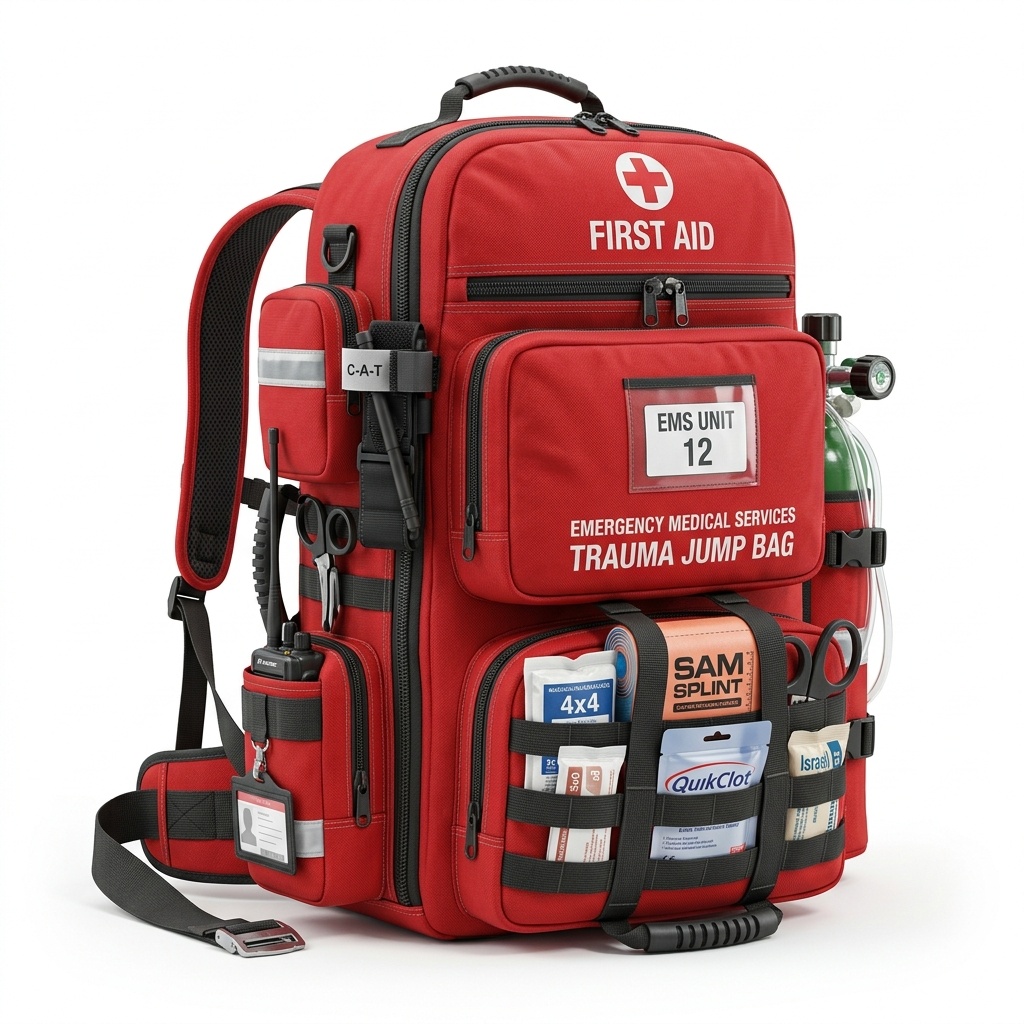
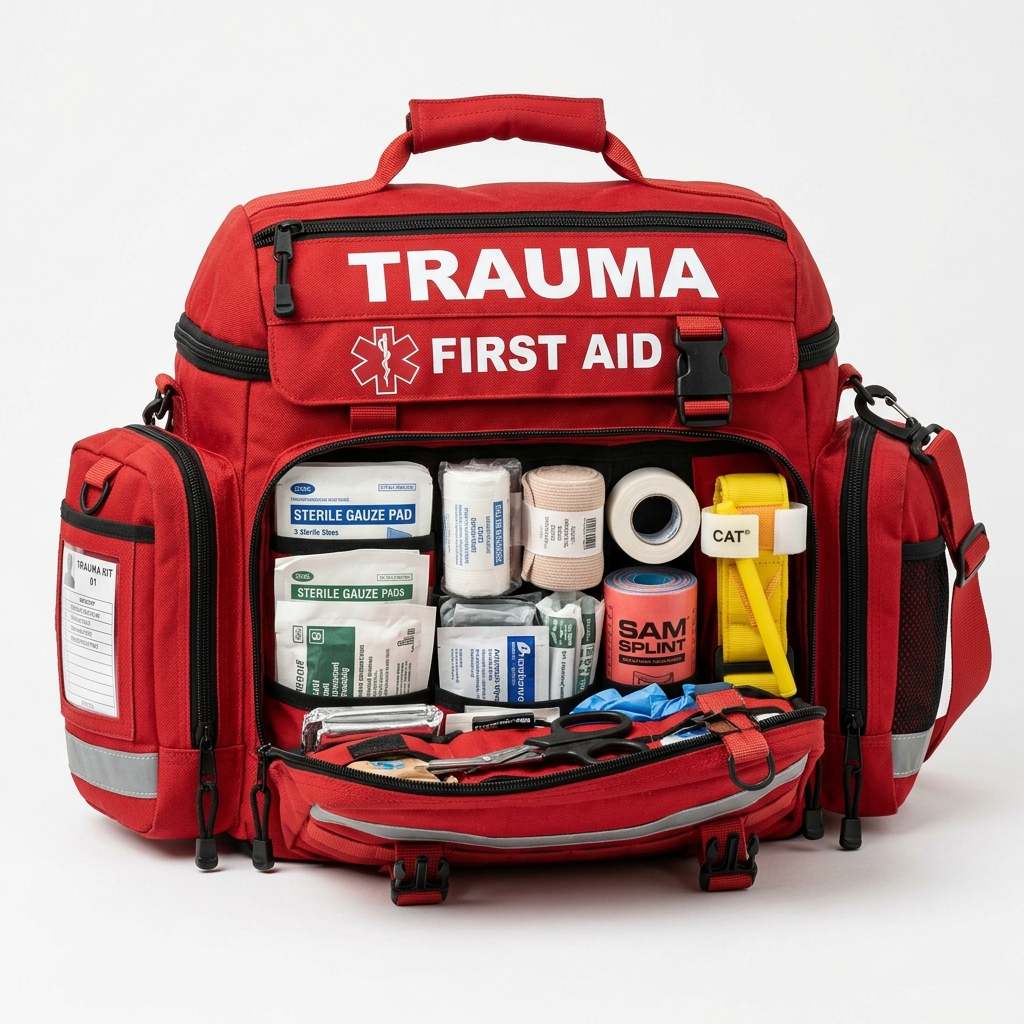
Fix tablet responsiveness and missing equipment images

diff --git a/src/sections/CoverageMap.tsx b/src/sections/CoverageMap.tsx
@@ -15,10 +15,10 @@ export const CoverageMap: React.FC = () => {
   const { t } = useLanguage();
 
   return (
-    <section className="relative w-full min-h-screen lg:min-h-0 lg:h-[800px] bg-[#040810] overflow-hidden isolate flex flex-col lg:block border-t border-white/5">
+    <section className="relative w-full min-h-screen md:min-h-0 md:h-[800px] bg-[#040810] overflow-hidden isolate flex flex-col md:block border-t border-white/5">
       
-      {/* Background Map - Top on mobile, full background on desktop */}
-      <div className="relative lg:absolute inset-0 w-full h-[50vh] min-h-[400px] lg:h-full lg:min-h-full -z-20">
+      {/* Background Map - Top on mobile, full background on tablet/desktop */}
+      <div className="relative md:absolute inset-0 w-full h-[50vh] min-h-[400px] md:h-full md:min-h-full -z-20">
         <iframe
           title="Guntur Coverage Map"
           src="https://www.google.com/maps/embed?pb=!1m18!1m12!1m3!1d122393.18956903332!2d80.35406730784961!3d16.32356502758156!2m3!1f0!2f0!3f0!3m2!1i1024!2i768!4f13.1!3m3!1m2!1s0x3a4a755cb1787785%3A0x9f799cb5549812ab!2sGuntur%2C%20Andhra%20Pradesh!5e0!3m2!1sen!2sin!4v1700000000000!5m2!1sen!2sin"
@@ -35,7 +35,7 @@ export const CoverageMap: React.FC = () => {
         />
         
         {/* Gradients to blend the map seamlessly into the dark background */}
-        <div className="absolute inset-0 bg-gradient-to-b from-transparent via-transparent to-[#040810] lg:to-transparent lg:bg-gradient-to-r lg:from-[#040810] lg:via-transparent lg:to-[#040810] pointer-events-none opacity-90 lg:opacity-80" />
+        <div className="absolute inset-0 bg-gradient-to-b from-transparent via-transparent to-[#040810] md:to-transparent md:bg-gradient-to-r md:from-[#040810] md:via-transparent md:to-[#040810] pointer-events-none opacity-90 md:opacity-80" />
       </div>
 
       {/* Radar Sweep Effect (Visible primarily on desktop or tablet) */}
@@ -46,17 +46,17 @@ export const CoverageMap: React.FC = () => {
       </div>
 
       {/* Main Content Overlay - Pulled up on mobile to overlap the map */}
-      <div className="page-container relative z-10 flex-grow flex flex-col justify-start lg:justify-center -mt-24 lg:mt-0 lg:h-full pb-16 lg:pb-0">
+      <div className="page-container relative z-10 flex-grow flex flex-col justify-start md:justify-center -mt-24 md:mt-0 md:h-full pb-16 md:pb-0">
         
-        <div className="grid grid-cols-1 lg:grid-cols-12 gap-8 items-center h-full">
+        <div className="grid grid-cols-1 md:grid-cols-12 gap-8 items-center h-full">
           
           {/* Glass Panel */}
-          <div className="col-span-1 lg:col-span-5 relative group mx-2 sm:mx-0">
+          <div className="col-span-1 md:col-span-6 lg:col-span-5 relative group mx-2 sm:mx-0">
             
             {/* Glowing Backdrop */}
-            <div className="absolute -inset-1 bg-gradient-to-br from-blue-500/30 to-teal-500/30 rounded-[2rem] blur-xl opacity-80 lg:opacity-50 group-hover:opacity-100 transition-opacity duration-700" />
+            <div className="absolute -inset-1 bg-gradient-to-br from-blue-500/30 to-teal-500/30 rounded-[2rem] blur-xl opacity-80 md:opacity-50 group-hover:opacity-100 transition-opacity duration-700" />
             
-            <div className="relative bg-[#0a1220]/90 lg:bg-[#0a1220]/80 backdrop-blur-xl md:backdrop-blur-2xl border border-white/10 p-6 sm:p-8 md:p-12 rounded-[1.5rem] md:rounded-[2rem] shadow-2xl overflow-hidden">
+            <div className="relative bg-[#0a1220]/90 md:bg-[#0a1220]/80 backdrop-blur-xl md:backdrop-blur-2xl border border-white/10 p-6 sm:p-8 md:p-12 rounded-[1.5rem] md:rounded-[2rem] shadow-2xl overflow-hidden">
               
               {/* Live Indicator */}
               <div className="flex items-center gap-3 mb-6 md:mb-8 bg-white/5 w-fit px-3 py-1.5 md:px-4 md:py-2 rounded-full border border-white/10">
@@ -114,7 +114,7 @@ export const CoverageMap: React.FC = () => {
           </div>
           
           {/* Spacer for desktop to push panel left */}
-          <div className="hidden lg:block lg:col-span-7" />
+          <div className="hidden md:block md:col-span-6 lg:col-span-7" />
         </div>
       </div>
     </section>

diff --git a/src/sections/Hero.tsx b/src/sections/Hero.tsx
@@ -171,11 +171,11 @@ export const Hero: React.FC = () => {
           </div>
 
           {/* ── CENTER: Ambulance Fleet ── */}
-          <div className="flex-1 flex items-end justify-center gap-1 sm:gap-3 md:gap-5 w-full mt-6 lg:mt-0 px-1 sm:px-0">
+          <div className="flex-1 flex flex-row items-end justify-center gap-2 sm:gap-4 w-full mt-6 lg:mt-0 px-2 sm:px-0 overflow-visible">
             {ambulances.map((amb, idx) => (
-              <div key={amb.id} className={`hero-ambulance group relative flex flex-col items-center flex-1 max-w-[320px] ${idx === 1 ? 'z-10 scale-110 mb-2' : 'z-0'}`}>
+              <div key={amb.id} className={`hero-ambulance group relative flex flex-col items-center w-1/3 max-w-[280px] lg:max-w-[320px] ${idx === 1 ? 'z-10 scale-[1.15] mb-2 sm:mb-4' : 'z-0'}`}>
                 {/* Label badge */}
-                <span className="inline-block bg-blue-700 text-white text-[7px] sm:text-[9px] md:text-[10px] font-black uppercase tracking-[0.1em] sm:tracking-[0.15em] px-2 sm:px-3 py-1 rounded-full mb-1 sm:mb-2 shadow-md whitespace-nowrap">
+                <span className="inline-block bg-blue-700 text-white text-[9px] md:text-[11px] lg:text-xs font-black uppercase tracking-wider lg:tracking-[0.15em] px-2 py-1 rounded-full mb-1 sm:mb-2 shadow-md text-center leading-tight min-h-[24px] flex items-center justify-center w-[90%] mx-auto">
                   {amb.label}
                 </span>
                 {/* Image */}

diff --git a/src/components/molecules/FloatingActions.tsx b/src/components/molecules/FloatingActions.tsx
@@ -13,7 +13,7 @@ export const FloatingActions: React.FC = () => {
   };
 
   return (
-    <div className="fixed right-0 top-1/2 -translate-y-1/2 z-50 flex flex-col gap-2 p-2">
+    <div className="hidden lg:flex fixed right-0 top-1/2 -translate-y-1/2 z-50 flex-col gap-2 p-2">
       {/* SOS Button */}
       <button
         onClick={() => window.dispatchEvent(new Event('open-emergency-mode'))}
